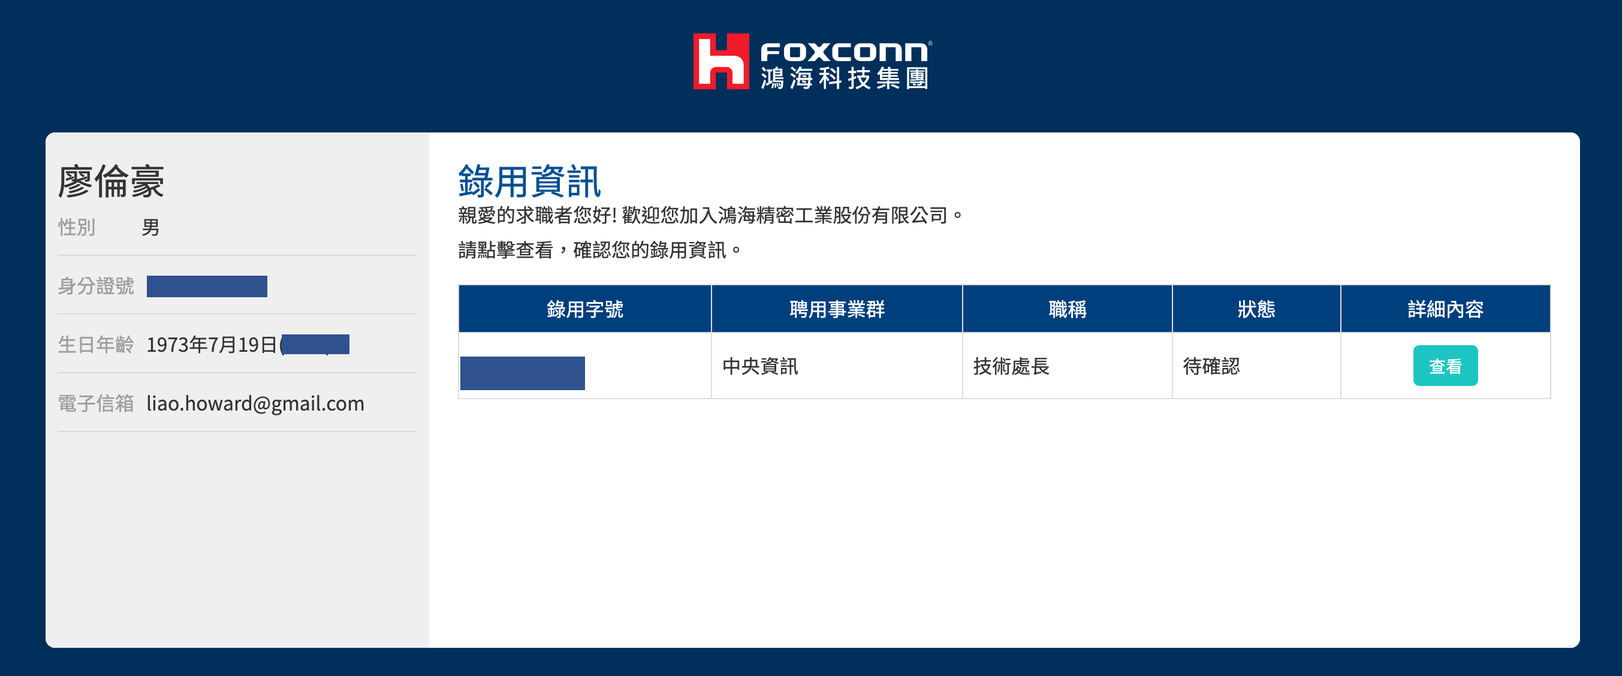
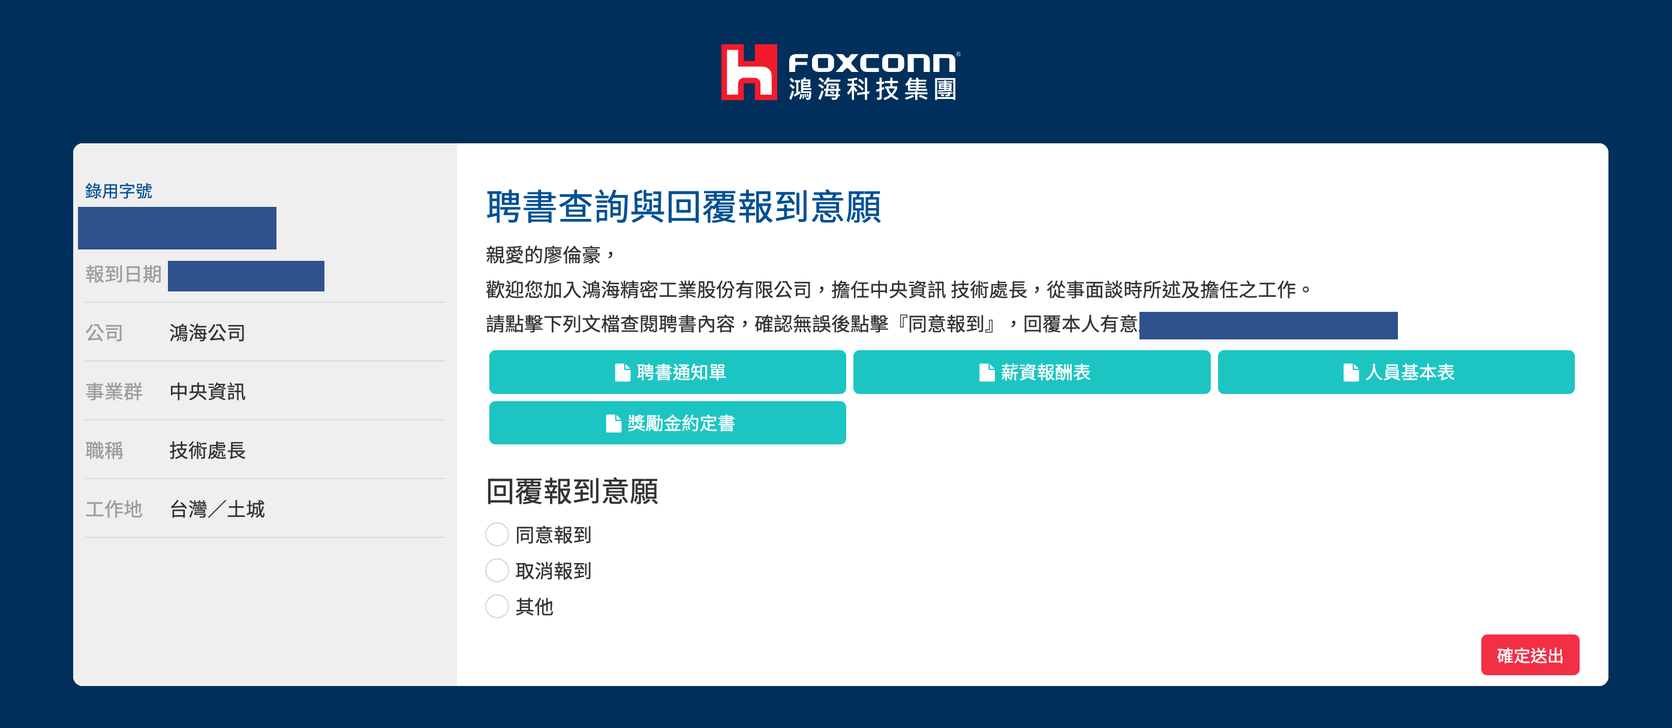
feat(proof): replace Foxconn employee profile with Option 2 official appointment and acceptance certificate

Changed region(s): [[0.031, 0.1862, 0.9933, 0.9619], [0.4035, 0.031, 0.5898, 0.1551], [0.2794, 0.6516, 0.4035, 0.8378]]

diff --git a/ja.html b/ja.html
@@ -449,7 +449,7 @@ footer{padding:40px 16px 60px;text-align:center;color:var(--mute);font-size:13px
  <h2>経歴</h2><p class="sub">Education, career &amp; credentials</p>
  <p class="lead">25年以上のIT経験と15年以上のCIO・技術責任者としてのキャリアを持ち、電子製造、外資系ソフトウェア、上場デジタルプラットフォームを横断。取締役会の経営目標をITとAIの投資ポートフォリオに落とし込み、アーキテクチャの意思決定を自ら主導し、歩留まり・OEE・TCOなどの経営指標で成果を出してきました。ISO 27001およびISO 42001のガバナンス基準のもと、イノベーションのスピードとガバナンスの一線を両立させます。</p>
  <div class="grid2">
-  <div><h3>キャリア</h3><div class="tl"><div class="it"><div class="dt">2025.05 – 現在</div><b>先端ハイテク企業｜シニアAIシステムアーキテクト・システム統括</b><span class="chip">Agentic AI +55%</span><div class="mute">多国籍のテクノロジー基盤・AI導入展開（高雄、台北、上海）</div><div>アーキテクチャ審査委員会を主宰、API-firstとKafka／EDI／IDoc統合標準、DevSecOps品質ゲート、ISO 42001 AIガバナンス、Agentic AIワークフロー</div></div><div class="it"><div class="dt">2022.09 – 2025.04</div><b>隆中網絡（GameSparcs、6542）｜情報技術部門長（CIO／CISO）</b><span class="chip">TCO−30%、ゼロダウンタイム</span><div class="mute">店頭上場のデジタル・テクノロジー基盤（台北、台中、成都、上海、マルタ ...）</div><div>コアサービスをKubernetesへ移行、グローバルデータ管理基盤、FinOps、ISO 27001とゼロトラスト</div></div><div class="it"><div class="dt">鴻海科技グループ（Foxconn）</div><b>鴻海精密工業｜中央資訊 技術処長（システム運用統括）</b><span class="chip">最高アーキテクチャ意思決定</span><div class="mute">グループ総部中央資訊・新北土城総部（全社システムアーキテクチャ統括）</div><div>グループ中央資訊の最高責任者に直屬。全社アーキテクチャの意思決定とSWOTギャップ分析を主導。ビジネス戦略を技術アーキテクチャに翻訳する中核的役割を担い、運用モデルに基づくグループデジタルトランスフォーメーション計画を策定。</div><div style="margin-top:8px;display:flex;gap:8px;flex-wrap:wrap"><button type="button" class="chip" style="cursor:pointer;border:1px solid var(--line);background:var(--card);color:var(--green);font-size:12px;padding:3px 10px;border-radius:4px;display:inline-flex;align-items:center;gap:4px" data-proof-src="assets/proof/foxconn_offer_letter.png" data-cap="鴻海精密工業 採用通知書（オファーレター）｜グループ総部中央資訊 技術処長（システム運用統括）">📄 採用通知書を表示</button><button type="button" class="chip" style="cursor:pointer;border:1px solid var(--line);background:var(--card);color:var(--green);font-size:12px;padding:3px 10px;border-radius:4px;display:inline-flex;align-items:center;gap:4px" data-proof-src="assets/proof/foxconn_employee_profile.png" data-cap="鴻海科技グループ 採用・システム基本情報確認書｜中央資訊 技術処長（新北土城総部）">📄 従業員基本情報を表示</button></div></div><div class="it"><div class="dt">大規模EC</div><b>PChome Online（網路家庭）｜技術／ビッグデータ／AI部門 シニアディレクター</b><span class="chip">マイクロサービス＆データ基盤</span><div class="mute">大規模高トラフィックEC＆トランザクション基盤（台北本社）</div><div>大規模高トラフィックECマイクロサービス分離、リアルタイムデータ基盤と弾力的な高可用性設計、データガバナンスとリスク管理境界の確立</div><div style="margin-top:8px;display:flex;gap:8px;flex-wrap:wrap"><button type="button" class="chip" style="cursor:pointer;border:1px solid var(--line);background:var(--card);color:var(--green);font-size:12px;padding:3px 10px;border-radius:4px;display:inline-flex;align-items:center;gap:4px" data-proof-src="assets/proof/pchome_offer_letter.png" data-cap="PChome Online 採用通知書（オファーレター）｜技術／ビッグデータ／AI部門 シニアディレクター">📄 採用通知書を表示</button><button type="button" class="chip" style="cursor:pointer;border:1px solid var(--line);background:var(--card);color:var(--green);font-size:12px;padding:3px 10px;border-radius:4px;display:inline-flex;align-items:center;gap:4px" data-proof-src="assets/proof/pchome_employee_profile.png" data-cap="PChome Online 従業員基本情報｜職責：581-シニアディレクター 等級：13-13">📄 従業員基本情報を表示</button></div></div><div class="it"><div class="dt">2018.10 – 2022.09</div><b>泓晏科技｜IT Director</b><span class="chip">歩留まり+15%、OEE+18%</span><div class="mute">多国籍の電子製造企業（深セン、新竹、台中、杭州、成都の複数拠点）</div><div>買収後のSAP S/4HANA統合、MES・PLM・APS連携、Edge AIoT、IEC 62443、B2B EDI</div></div><div class="it"><div class="dt">2010 – 2018</div><b>Chiffon Group｜CIO</b><span class="chip">データガバナンス</span><div class="mute">異業種を擁する持株グループ（台中本社、台北・深セン・上海・張家港拠点）</div><div>グループのITガバナンス、システム統合、データチーム</div></div><div class="it"><div class="dt">2007 – 2010</div><b>凌網科技（HyWeb、5212）｜部門長</b><span class="chip">—</span><div class="mute">店頭上場のITサービス・デジタルテクノロジー企業（台北、新竹、台中、北京 ...）</div><div>SOAアーキテクチャ、ビジネスポータル、ITILサービスガバナンス</div></div><div class="it"><div class="dt">2003 – 2007</div><b>米国Sybase／Borland｜テクニカルマネージャー</b><span class="chip">データベース</span><div class="mute">米国のエンタープライズ・ソフトウェア（台北、上海、北京）</div><div>大中華圏のデータベース、ミドルウェア、ALMの技術コンサルティングとデリバリー</div></div><div class="it"><div class="dt">長期</div><b>台中栄民総医院の顧問、康善基金会の常務理事</b><span class="chip">医療データ</span><div class="mute">医療と公益（台中）</div><div>医療情報の連携、スマート介護、公益分野のデジタル化</div></div></div></div>
+  <div><h3>キャリア</h3><div class="tl"><div class="it"><div class="dt">2025.05 – 現在</div><b>先端ハイテク企業｜シニアAIシステムアーキテクト・システム統括</b><span class="chip">Agentic AI +55%</span><div class="mute">多国籍のテクノロジー基盤・AI導入展開（高雄、台北、上海）</div><div>アーキテクチャ審査委員会を主宰、API-firstとKafka／EDI／IDoc統合標準、DevSecOps品質ゲート、ISO 42001 AIガバナンス、Agentic AIワークフロー</div></div><div class="it"><div class="dt">2022.09 – 2025.04</div><b>隆中網絡（GameSparcs、6542）｜情報技術部門長（CIO／CISO）</b><span class="chip">TCO−30%、ゼロダウンタイム</span><div class="mute">店頭上場のデジタル・テクノロジー基盤（台北、台中、成都、上海、マルタ ...）</div><div>コアサービスをKubernetesへ移行、グローバルデータ管理基盤、FinOps、ISO 27001とゼロトラスト</div></div><div class="it"><div class="dt">鴻海科技グループ（Foxconn）</div><b>鴻海精密工業｜中央資訊 技術処長（システム運用統括）</b><span class="chip">最高アーキテクチャ意思決定</span><div class="mute">グループ総部中央資訊・新北土城総部（全社システムアーキテクチャ統括）</div><div>グループ中央資訊の最高責任者に直屬。全社アーキテクチャの意思決定とSWOTギャップ分析を主導。ビジネス戦略を技術アーキテクチャに翻訳する中核的役割を担い、運用モデルに基づくグループデジタルトランスフォーメーション計画を策定。</div><div style="margin-top:8px;display:flex;gap:8px;flex-wrap:wrap"><button type="button" class="chip" style="cursor:pointer;border:1px solid var(--line);background:var(--card);color:var(--green);font-size:12px;padding:3px 10px;border-radius:4px;display:inline-flex;align-items:center;gap:4px" data-proof-src="assets/proof/foxconn_offer_letter.png" data-cap="鴻海精密工業 採用通知書（オファーレター）｜グループ総部中央資訊 技術処長（システム運用統括）">📄 採用通知書を表示</button><button type="button" class="chip" style="cursor:pointer;border:1px solid var(--line);background:var(--card);color:var(--green);font-size:12px;padding:3px 10px;border-radius:4px;display:inline-flex;align-items:center;gap:4px" data-proof-src="assets/proof/foxconn_employee_profile.png" data-cap="鴻海科技グループ 採用辞令・承諾意志確認書｜中央資訊 技術処長（新北土城総部）">📄 採用確認書を表示</button></div></div><div class="it"><div class="dt">大規模EC</div><b>PChome Online（網路家庭）｜技術／ビッグデータ／AI部門 シニアディレクター</b><span class="chip">マイクロサービス＆データ基盤</span><div class="mute">大規模高トラフィックEC＆トランザクション基盤（台北本社）</div><div>大規模高トラフィックECマイクロサービス分離、リアルタイムデータ基盤と弾力的な高可用性設計、データガバナンスとリスク管理境界の確立</div><div style="margin-top:8px;display:flex;gap:8px;flex-wrap:wrap"><button type="button" class="chip" style="cursor:pointer;border:1px solid var(--line);background:var(--card);color:var(--green);font-size:12px;padding:3px 10px;border-radius:4px;display:inline-flex;align-items:center;gap:4px" data-proof-src="assets/proof/pchome_offer_letter.png" data-cap="PChome Online 採用通知書（オファーレター）｜技術／ビッグデータ／AI部門 シニアディレクター">📄 採用通知書を表示</button><button type="button" class="chip" style="cursor:pointer;border:1px solid var(--line);background:var(--card);color:var(--green);font-size:12px;padding:3px 10px;border-radius:4px;display:inline-flex;align-items:center;gap:4px" data-proof-src="assets/proof/pchome_employee_profile.png" data-cap="PChome Online 従業員基本情報｜職責：581-シニアディレクター 等級：13-13">📄 従業員基本情報を表示</button></div></div><div class="it"><div class="dt">2018.10 – 2022.09</div><b>泓晏科技｜IT Director</b><span class="chip">歩留まり+15%、OEE+18%</span><div class="mute">多国籍の電子製造企業（深セン、新竹、台中、杭州、成都の複数拠点）</div><div>買収後のSAP S/4HANA統合、MES・PLM・APS連携、Edge AIoT、IEC 62443、B2B EDI</div></div><div class="it"><div class="dt">2010 – 2018</div><b>Chiffon Group｜CIO</b><span class="chip">データガバナンス</span><div class="mute">異業種を擁する持株グループ（台中本社、台北・深セン・上海・張家港拠点）</div><div>グループのITガバナンス、システム統合、データチーム</div></div><div class="it"><div class="dt">2007 – 2010</div><b>凌網科技（HyWeb、5212）｜部門長</b><span class="chip">—</span><div class="mute">店頭上場のITサービス・デジタルテクノロジー企業（台北、新竹、台中、北京 ...）</div><div>SOAアーキテクチャ、ビジネスポータル、ITILサービスガバナンス</div></div><div class="it"><div class="dt">2003 – 2007</div><b>米国Sybase／Borland｜テクニカルマネージャー</b><span class="chip">データベース</span><div class="mute">米国のエンタープライズ・ソフトウェア（台北、上海、北京）</div><div>大中華圏のデータベース、ミドルウェア、ALMの技術コンサルティングとデリバリー</div></div><div class="it"><div class="dt">長期</div><b>台中栄民総医院の顧問、康善基金会の常務理事</b><span class="chip">医療データ</span><div class="mute">医療と公益（台中）</div><div>医療情報の連携、スマート介護、公益分野のデジタル化</div></div></div></div>
   <div>
    <h3>学歴</h3><div class="card" style="margin-bottom:8px"><b>情報技術管理学博士（2014）</b>　朝陽科技大学<div class="mute">博士論文：適応型サービス指向アーキテクチャのITガバナンスに基づく統合ビジネス・セルフサービスポータルの研究（国家図書館所蔵）</div></div><div class="card" style="margin-bottom:8px"><b>情報科学修士（2006）</b>　国立中興大学<div class="mute">データマイニング、意思決定支援システム、暗号学。医療クラウドケア計画の共同研究者</div></div>
    <h3 style="margin-top:18px">研究と論文</h3><ul class="clean"><li>SCI国際誌『Multimedia Tools and Applications』筆頭著者：Reversible secret-image sharing with high visual quality（2014）</li><li>国際誌論文：Utilizing GIS and GPS in Designing a Trilingual Tourist APP（2015）</li><li>修士・博士論文の指導と審査を長年担当</li></ul>

diff --git a/en.html b/en.html
@@ -449,7 +449,7 @@ footer{padding:40px 16px 60px;text-align:center;color:var(--mute);font-size:13px
  <h2>Background</h2><p class="sub">Education, career &amp; credentials</p>
  <p class="lead">25+ years in IT and 15+ years as CIO and technology executive across electronics manufacturing, global software vendors and listed digital platforms. I turn board-level business goals into IT and AI investment portfolios, lead architecture decisions personally, and deliver results measured in yield, OEE and TCO. With ISO 27001 and ISO 42001 governance standards, I balance the speed of innovation with clear governance guardrails.</p>
  <div class="grid2">
-  <div><h3>Career</h3><div class="tl"><div class="it"><div class="dt">2025.05 – present</div><b>High-Tech Technology Group | Senior AI Systems Architect &amp; Systems Lead</b><span class="chip">Agentic AI +55%</span><div class="mute">Global Application Governance &amp; AI Deployment (Kaohsiung, Taipei, Shanghai)</div><div>Chaired the architecture review board; API-first and Kafka/EDI/IDoc integration standards; DevSecOps quality gates; ISO 42001 AI governance; Agentic AI workflows</div></div><div class="it"><div class="dt">2022.09 – 2025.04</div><b>GameSparcs (6542) | Director of Information Technology (CIO/CISO)</b><span class="chip">TCO −30%, zero downtime</span><div class="mute">OTC-listed digital technology platform (Taipei, Taichung, Chengdu, Shanghai, Malta ...)</div><div>Core services migrated to Kubernetes; global data management platform; FinOps; ISO 27001 and zero trust</div></div><div class="it"><div class="dt">Foxconn Technology Group</div><b>Hon Hai Precision Industry | Technical Director, Central IT</b><span class="chip">Enterprise Architecture</span><div class="mute">Global Corporate Central IT, New Taipei Tucheng HQ (cross-plant systems architecture)</div><div>Reported directly to Global Central IT leadership; led enterprise architecture solution decision-making and SWOT gap analyses; served pivotal role translating business strategies into technical architecture; developed group-wide digital transformation blueprints; coordinated cross-plant enterprise application evaluations.</div><div style="margin-top:8px;display:flex;gap:8px;flex-wrap:wrap"><button type="button" class="chip" style="cursor:pointer;border:1px solid var(--line);background:var(--card);color:var(--green);font-size:12px;padding:3px 10px;border-radius:4px;display:inline-flex;align-items:center;gap:4px" data-proof-src="assets/proof/foxconn_offer_letter.png" data-cap="Hon Hai Precision Industry (Foxconn) Official Offer Letter | Technical Director, Central IT">📄 View Offer Letter</button><button type="button" class="chip" style="cursor:pointer;border:1px solid var(--line);background:var(--card);color:var(--green);font-size:12px;padding:3px 10px;border-radius:4px;display:inline-flex;align-items:center;gap:4px" data-proof-src="assets/proof/foxconn_employee_profile.png" data-cap="Foxconn Group Portal Verification Record | Technical Director, Central IT (Tucheng HQ)">📄 View Employment Record</button></div></div><div class="it"><div class="dt">E-Commerce</div><b>PChome Online | Senior Director, Tech / Big Data / AI</b><span class="chip">Microservices & Big Data</span><div class="mute">High-concurrency e-commerce & massive transaction platform (Taipei HQ)</div><div>Led microservices decoupling; designed real-time big data hub and resilient HA architecture; enforced data governance and risk control</div><div style="margin-top:8px;display:flex;gap:8px;flex-wrap:wrap"><button type="button" class="chip" style="cursor:pointer;border:1px solid var(--line);background:var(--card);color:var(--green);font-size:12px;padding:3px 10px;border-radius:4px;display:inline-flex;align-items:center;gap:4px" data-proof-src="assets/proof/pchome_offer_letter.png" data-cap="PChome Online Offer Letter | Senior Director, Tech / Big Data / AI">📄 View Offer Letter</button><button type="button" class="chip" style="cursor:pointer;border:1px solid var(--line);background:var(--card);color:var(--green);font-size:12px;padding:3px 10px;border-radius:4px;display:inline-flex;align-items:center;gap:4px" data-proof-src="assets/proof/pchome_employee_profile.png" data-cap="PChome Online Employee Profile | Senior Director (Level 13-13)">📄 View Employee Profile</button></div></div><div class="it"><div class="dt">2018.10 – 2022.09</div><b>Hongyan Technology | IT Director</b><span class="chip">Yield +15%, OEE +18%</span><div class="mute">Multinational electronics manufacturing (Shenzhen, Hsinchu, Taichung, Hangzhou, Chengdu)</div><div>Post-merger SAP S/4HANA consolidation connecting MES, PLM and APS; Edge AIoT; IEC 62443; B2B EDI</div></div><div class="it"><div class="dt">2010 – 2018</div><b>Chiffon Group | CIO</b><span class="chip">Data governance</span><div class="mute">Cross-industry holding group (Taichung HQ; Taipei, Shenzhen, Shanghai, Zhangjiagang)</div><div>Group IT governance, systems integration and data teams</div></div><div class="it"><div class="dt">2007 – 2010</div><b>HyWeb Technology (5212) | Department head</b><span class="chip">—</span><div class="mute">OTC-listed digital technology group (Taipei, Hsinchu, Taichung, Beijing ...)</div><div>SOA architecture, business portal, ITIL service governance</div></div><div class="it"><div class="dt">2003 – 2007</div><b>Sybase / Borland (US) | Technical manager</b><span class="chip">Database</span><div class="mute">US enterprise software (Taipei, Shanghai, Beijing)</div><div>Database, middleware and ALM technical consulting and delivery for Greater China</div></div><div class="it"><div class="dt">Ongoing</div><b>Advisor to Taichung Veterans General Hospital; managing director of the Kang Shan Foundation</b><span class="chip">Healthcare data</span><div class="mute">Healthcare and nonprofit (Taichung)</div><div>Healthcare data integration, smart long-term care and nonprofit digitalization</div></div></div></div>
+  <div><h3>Career</h3><div class="tl"><div class="it"><div class="dt">2025.05 – present</div><b>High-Tech Technology Group | Senior AI Systems Architect &amp; Systems Lead</b><span class="chip">Agentic AI +55%</span><div class="mute">Global Application Governance &amp; AI Deployment (Kaohsiung, Taipei, Shanghai)</div><div>Chaired the architecture review board; API-first and Kafka/EDI/IDoc integration standards; DevSecOps quality gates; ISO 42001 AI governance; Agentic AI workflows</div></div><div class="it"><div class="dt">2022.09 – 2025.04</div><b>GameSparcs (6542) | Director of Information Technology (CIO/CISO)</b><span class="chip">TCO −30%, zero downtime</span><div class="mute">OTC-listed digital technology platform (Taipei, Taichung, Chengdu, Shanghai, Malta ...)</div><div>Core services migrated to Kubernetes; global data management platform; FinOps; ISO 27001 and zero trust</div></div><div class="it"><div class="dt">Foxconn Technology Group</div><b>Hon Hai Precision Industry | Technical Director, Central IT</b><span class="chip">Enterprise Architecture</span><div class="mute">Global Corporate Central IT, New Taipei Tucheng HQ (cross-plant systems architecture)</div><div>Reported directly to Global Central IT leadership; led enterprise architecture solution decision-making and SWOT gap analyses; served pivotal role translating business strategies into technical architecture; developed group-wide digital transformation blueprints; coordinated cross-plant enterprise application evaluations.</div><div style="margin-top:8px;display:flex;gap:8px;flex-wrap:wrap"><button type="button" class="chip" style="cursor:pointer;border:1px solid var(--line);background:var(--card);color:var(--green);font-size:12px;padding:3px 10px;border-radius:4px;display:inline-flex;align-items:center;gap:4px" data-proof-src="assets/proof/foxconn_offer_letter.png" data-cap="Hon Hai Precision Industry (Foxconn) Official Offer Letter | Technical Director, Central IT">📄 View Offer Letter</button><button type="button" class="chip" style="cursor:pointer;border:1px solid var(--line);background:var(--card);color:var(--green);font-size:12px;padding:3px 10px;border-radius:4px;display:inline-flex;align-items:center;gap:4px" data-proof-src="assets/proof/foxconn_employee_profile.png" data-cap="Foxconn Group Official Appointment &amp; Acceptance Verification Record | Technical Director, Central IT (Tucheng HQ)">📄 View Employment Record</button></div></div><div class="it"><div class="dt">E-Commerce</div><b>PChome Online | Senior Director, Tech / Big Data / AI</b><span class="chip">Microservices & Big Data</span><div class="mute">High-concurrency e-commerce & massive transaction platform (Taipei HQ)</div><div>Led microservices decoupling; designed real-time big data hub and resilient HA architecture; enforced data governance and risk control</div><div style="margin-top:8px;display:flex;gap:8px;flex-wrap:wrap"><button type="button" class="chip" style="cursor:pointer;border:1px solid var(--line);background:var(--card);color:var(--green);font-size:12px;padding:3px 10px;border-radius:4px;display:inline-flex;align-items:center;gap:4px" data-proof-src="assets/proof/pchome_offer_letter.png" data-cap="PChome Online Offer Letter | Senior Director, Tech / Big Data / AI">📄 View Offer Letter</button><button type="button" class="chip" style="cursor:pointer;border:1px solid var(--line);background:var(--card);color:var(--green);font-size:12px;padding:3px 10px;border-radius:4px;display:inline-flex;align-items:center;gap:4px" data-proof-src="assets/proof/pchome_employee_profile.png" data-cap="PChome Online Employee Profile | Senior Director (Level 13-13)">📄 View Employee Profile</button></div></div><div class="it"><div class="dt">2018.10 – 2022.09</div><b>Hongyan Technology | IT Director</b><span class="chip">Yield +15%, OEE +18%</span><div class="mute">Multinational electronics manufacturing (Shenzhen, Hsinchu, Taichung, Hangzhou, Chengdu)</div><div>Post-merger SAP S/4HANA consolidation connecting MES, PLM and APS; Edge AIoT; IEC 62443; B2B EDI</div></div><div class="it"><div class="dt">2010 – 2018</div><b>Chiffon Group | CIO</b><span class="chip">Data governance</span><div class="mute">Cross-industry holding group (Taichung HQ; Taipei, Shenzhen, Shanghai, Zhangjiagang)</div><div>Group IT governance, systems integration and data teams</div></div><div class="it"><div class="dt">2007 – 2010</div><b>HyWeb Technology (5212) | Department head</b><span class="chip">—</span><div class="mute">OTC-listed digital technology group (Taipei, Hsinchu, Taichung, Beijing ...)</div><div>SOA architecture, business portal, ITIL service governance</div></div><div class="it"><div class="dt">2003 – 2007</div><b>Sybase / Borland (US) | Technical manager</b><span class="chip">Database</span><div class="mute">US enterprise software (Taipei, Shanghai, Beijing)</div><div>Database, middleware and ALM technical consulting and delivery for Greater China</div></div><div class="it"><div class="dt">Ongoing</div><b>Advisor to Taichung Veterans General Hospital; managing director of the Kang Shan Foundation</b><span class="chip">Healthcare data</span><div class="mute">Healthcare and nonprofit (Taichung)</div><div>Healthcare data integration, smart long-term care and nonprofit digitalization</div></div></div></div>
   <div>
   <h3>Education</h3><div class="card" style="margin-bottom:8px"><b>Ph.D. in IT Management (2014)</b>  Chaoyang University of Technology<div class="mute">Dissertation: A study of an integrated business self-service portal based on adaptive service-oriented architecture IT governance (archived at the National Central Library)</div></div><div class="card" style="margin-bottom:8px"><b>M.S. in Information Science (2006)</b>  National Chung Hsing University<div class="mute">Data mining, decision support systems, cryptography; co-principal investigator of a healthcare cloud care project</div></div>
   <h3 style="margin-top:18px">Research and publications</h3><ul class="clean"><li>First author, SCI journal Multimedia Tools and Applications: Reversible secret-image sharing with high visual quality (2014)</li><li>International journal paper: Utilizing GIS and GPS in Designing a Trilingual Tourist APP (2015)</li><li>Long-standing thesis supervisor and reviewer for master’s and doctoral students</li></ul>

diff --git a/index.html b/index.html
@@ -452,7 +452,7 @@ footer{padding:40px 16px 60px;text-align:center;color:var(--mute);font-size:13px
   <div><h3>職涯</h3><div class="tl">
    <div class="it"><div class="dt">2025.05 – 至今</div><b>高科技集團體系｜資深 AI 架構顧問 暨 應用治理負責人</b><span class="chip">Lead Time −40%</span><div class="mute">全球應用治理與 AI 落地・高雄、台北、上海</div><div>帶領 30 人以上團隊；3 年企業應用地圖、年度 IT 預算最高 1,000 萬美元（CAPEX／OPEX）與跨國 SI 供應商；SAP S/4HANA Clean Core 客製程式碼 −35%、標準流程覆蓋率 90% 以上；主持架構審查委員會，訂定 Java／Spring Boot API-first 與 Kafka／EDI／IDoc 整合標準；DevSecOps 品質關卡與 AI 輔助程式審查，缺陷逃逸率 −35%</div></div>
    <div class="it"><div class="dt">2022.01 – 2025.04</div><b>隆中網絡 GameSparcs（6542）｜IT Director（資訊、資安與資料平台主管）</b><span class="chip">TCO −30%、零停機</span><div class="mute">IT Director／資安長／數位 AI 長・台北、台中、成都、上海、馬爾他 ...</div><div>核心服務由虛擬機遷移至 GKE 容器化與 CI/CD，發布週期縮短一半；核心交易與遊戲資料遷移至 MongoDB Atlas 跨區叢集，支撐海外百萬級玩家，任內核心服務零中斷；FinOps 使多雲 TCO −30%；建立 ISO 27001 與零信任；獲 Google Cloud 選為 APAC 客戶成功案例</div></div>
-   <div class="it"><div class="dt">鴻海科技集團（Foxconn）</div><b>鴻海精密工業｜中央資訊 技術處長（系統營運統籌）</b><span class="chip">頂層架構決策</span><div class="mute">集團總部中央資訊・新北土城總部（統籌跨國多廠區系統架構）</div><div>直報集團中央資訊高階主管；負責全集團架構解決方案選項決策與 SWOT 差距分析；在業務戰略轉化為技術戰略方面發揮關鍵作用，並定義支持戰略的技術架構；依據營運模式與內部業務，制定集團數位轉型推動計畫；統籌跨廠區企業應用與系統架構評審。</div><div style="margin-top:8px;display:flex;gap:8px;flex-wrap:wrap"><button type="button" class="chip" style="cursor:pointer;border:1px solid var(--line);background:var(--card);color:var(--green);font-size:12px;padding:3px 10px;border-radius:4px;display:inline-flex;align-items:center;gap:4px" data-proof-src="assets/proof/foxconn_offer_letter.png" data-cap="鴻海精密工業 聘用通知書｜集團總部中央資訊 技術處長（系統營運統籌）">📄 檢視聘用函</button><button type="button" class="chip" style="cursor:pointer;border:1px solid var(--line);background:var(--card);color:var(--green);font-size:12px;padding:3px 10px;border-radius:4px;display:inline-flex;align-items:center;gap:4px" data-proof-src="assets/proof/foxconn_employee_profile.png" data-cap="鴻海科技集團 錄用系統核定資料檔｜中央資訊 技術處長（新北土城總部）">📄 檢視在職基本資料檔</button></div></div>
+   <div class="it"><div class="dt">鴻海科技集團（Foxconn）</div><b>鴻海精密工業｜中央資訊 技術處長（系統營運統籌）</b><span class="chip">頂層架構決策</span><div class="mute">集團總部中央資訊・新北土城總部（統籌跨國多廠區系統架構）</div><div>直報集團中央資訊高階主管；負責全集團架構解決方案選項決策與 SWOT 差距分析；在業務戰略轉化為技術戰略方面發揮關鍵作用，並定義支持戰略的技術架構；依據營運模式與內部業務，制定集團數位轉型推動計畫；統籌跨廠區企業應用與系統架構評審。</div><div style="margin-top:8px;display:flex;gap:8px;flex-wrap:wrap"><button type="button" class="chip" style="cursor:pointer;border:1px solid var(--line);background:var(--card);color:var(--green);font-size:12px;padding:3px 10px;border-radius:4px;display:inline-flex;align-items:center;gap:4px" data-proof-src="assets/proof/foxconn_offer_letter.png" data-cap="鴻海精密工業 聘用通知書｜集團總部中央資訊 技術處長（系統營運統籌）">📄 檢視聘用函</button><button type="button" class="chip" style="cursor:pointer;border:1px solid var(--line);background:var(--card);color:var(--green);font-size:12px;padding:3px 10px;border-radius:4px;display:inline-flex;align-items:center;gap:4px" data-proof-src="assets/proof/foxconn_employee_profile.png" data-cap="鴻海科技集團 聘書查詢與報到意願核定檔｜中央資訊 技術處長（新北土城總部）">📄 檢視在職基本資料檔</button></div></div>
    <div class="it"><div class="dt">大型電商</div><b>網路家庭（PChome Online）｜技術／大數據／人工智能部 資深總監</b><span class="chip">微服務與大數據</span><div class="mute">高併發大型電商平台與巨量交易數據中樞・台北總部</div><div>主導高併發大型電商平台微服務解耦；規劃巨量交易即時數據中樞與彈性高可用架構；落實資料治理與大數據風控邊界</div><div style="margin-top:8px;display:flex;gap:8px;flex-wrap:wrap"><button type="button" class="chip" style="cursor:pointer;border:1px solid var(--line);background:var(--card);color:var(--green);font-size:12px;padding:3px 10px;border-radius:4px;display:inline-flex;align-items:center;gap:4px" data-proof-src="assets/proof/pchome_offer_letter.png" data-cap="PChome Online 聘用函｜技術／大數據／人工智能部-大數據處 資深總監">📄 檢視聘用函</button><button type="button" class="chip" style="cursor:pointer;border:1px solid var(--line);background:var(--card);color:var(--green);font-size:12px;padding:3px 10px;border-radius:4px;display:inline-flex;align-items:center;gap:4px" data-proof-src="assets/proof/pchome_employee_profile.png" data-cap="PChome Online 人員基本資料檔｜職務：581-資深總監 職等：13-13">📄 檢視在職基本資料檔</button></div></div>
    <div class="it"><div class="dt">2018.05 – 2021.12</div><b>泓晏科技｜資訊長 暨 資安長（CIO／CISO）</b><span class="chip">良率 +15%、OEE +18%</span><div class="mute">國際高科技電子製造集團・深圳、新竹、台中、杭州、成都多廠區</div><div>主導 SAP S/4HANA 導入，標準功能優先，串接 MES、PLM、APS；Edge AIoT 資料平台涵蓋上千台 SMT 與組裝設備，機器學習不良預測與預測性維護；依 IEC 62443 與 ISO 27001 規劃 OT/IT 分段；國際品牌客戶 B2B EDI</div></div>
    <div class="it"><div class="dt">2014.10 – 2018.04</div><b>凌網科技（5212）｜資訊科技副總 暨 數位轉型總監</b><span class="chip">Lead Time −40%</span><div class="mute">上市櫃數位科技集團・台北、新竹、台中、北京 ...</div><div>帶領 50 人以上跨職能敏捷團隊；核心系統由單體重構為 Java／Spring Cloud 微服務與 API-first；建立 TDD、靜態分析與 CI/CD 標準；大型 B2B 平台 SLA 99.95% 以上；入選國家優秀 IT 經理人案例</div></div>
